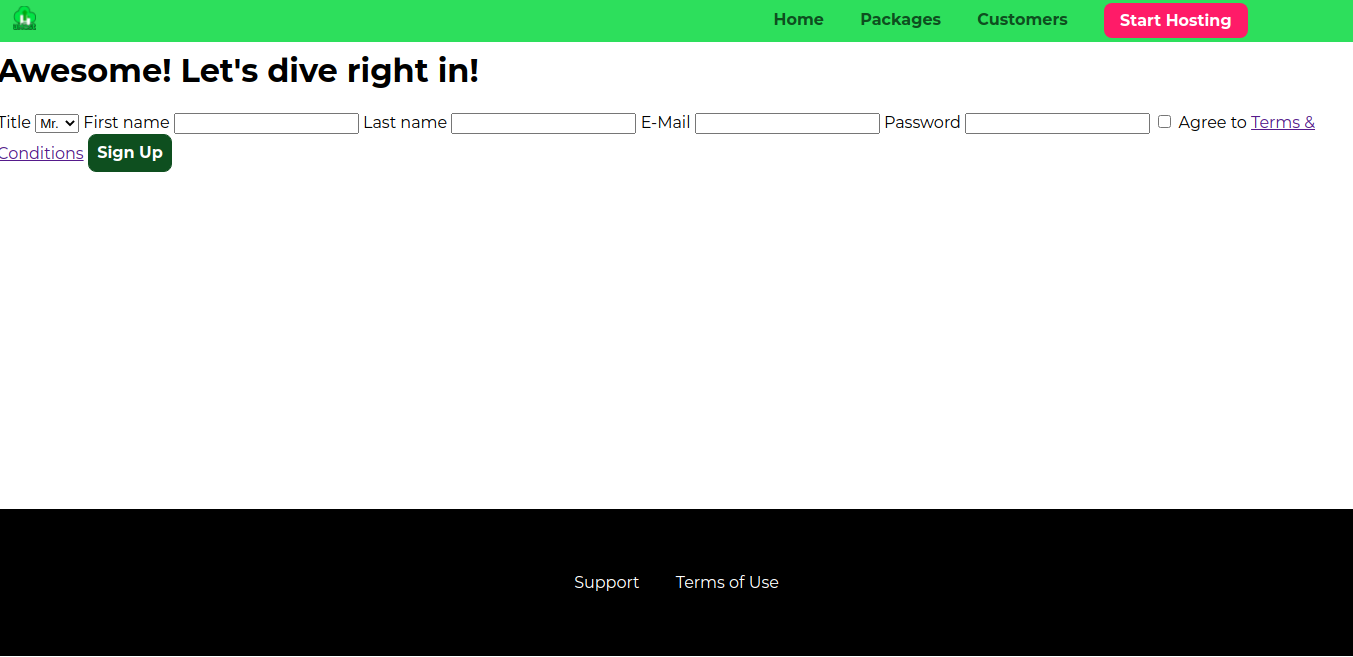
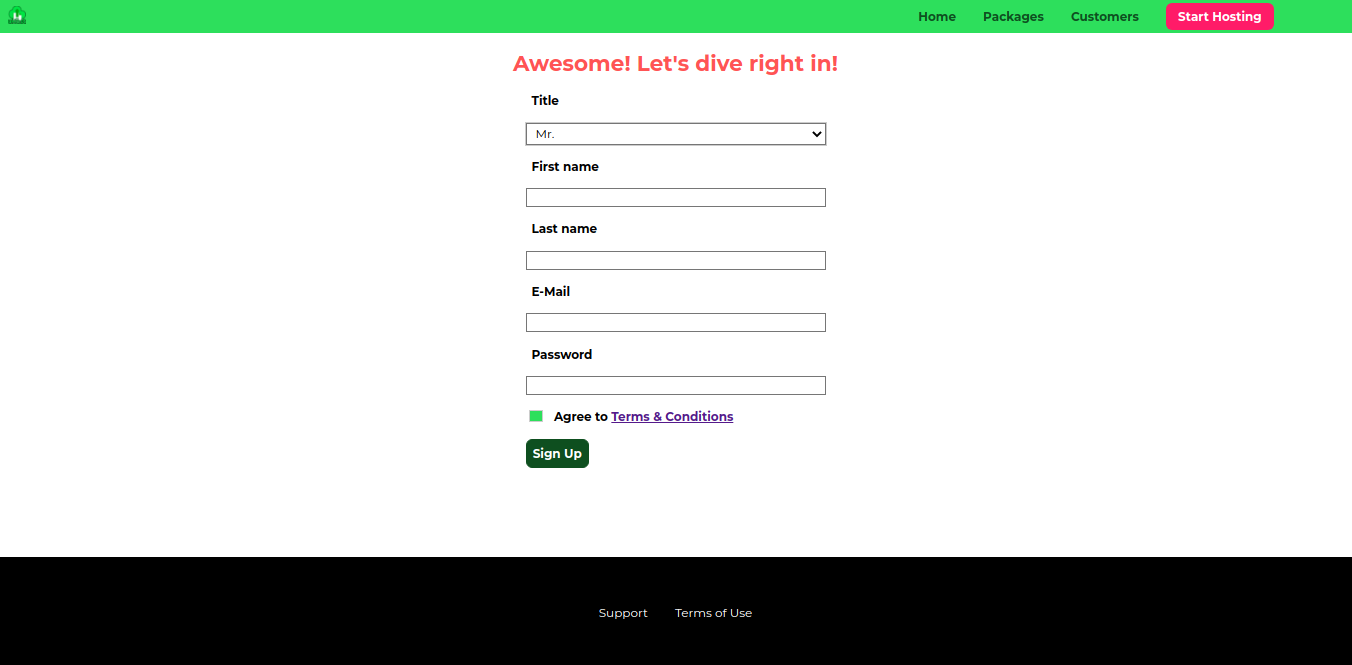
168. Styling the Checkbox

diff --git a/css/hosting.css b/css/hosting.css
@@ -16,7 +16,8 @@
 .signup-form label,
 .signup-form input,
 .signup-form select {
-	padding: 1rem;
+	/*padding: 1rem;*/
+	padding: 0.2rem 0.5rem;
 	display: block;
 	margin-top: 1rem;
 	width: 100%;
@@ -27,13 +28,29 @@
 .signup-form input[id*="terms"] + label {
 	width: auto;
 	display: inline-block;
+	vertical-align: middle;
 }
 
-.signup-form input,
+.signup-form input:focus,
 .signup-form select {
-	border: 1px solid #ccc;
+	outline: 1px solid #ccc;
 	padding: 0.2rem 0.5rem;
 	font: inherit;
+}
+
+.signup-form input[type="checkbox"] {
+	border: 1px solid #ccc;
+	background: white;
+	width: 1rem;
+	height: 1rem;
+	-webkit-appearance: none;
+	-moz-appearance: none;
+	appearance: none;
+}
+
+.signup-form input[type="checkbox"]:checked {
+	background: #2ddf5c;
+	outline: #0e4f1f;
 }
 
 .signup-form input:focus,
